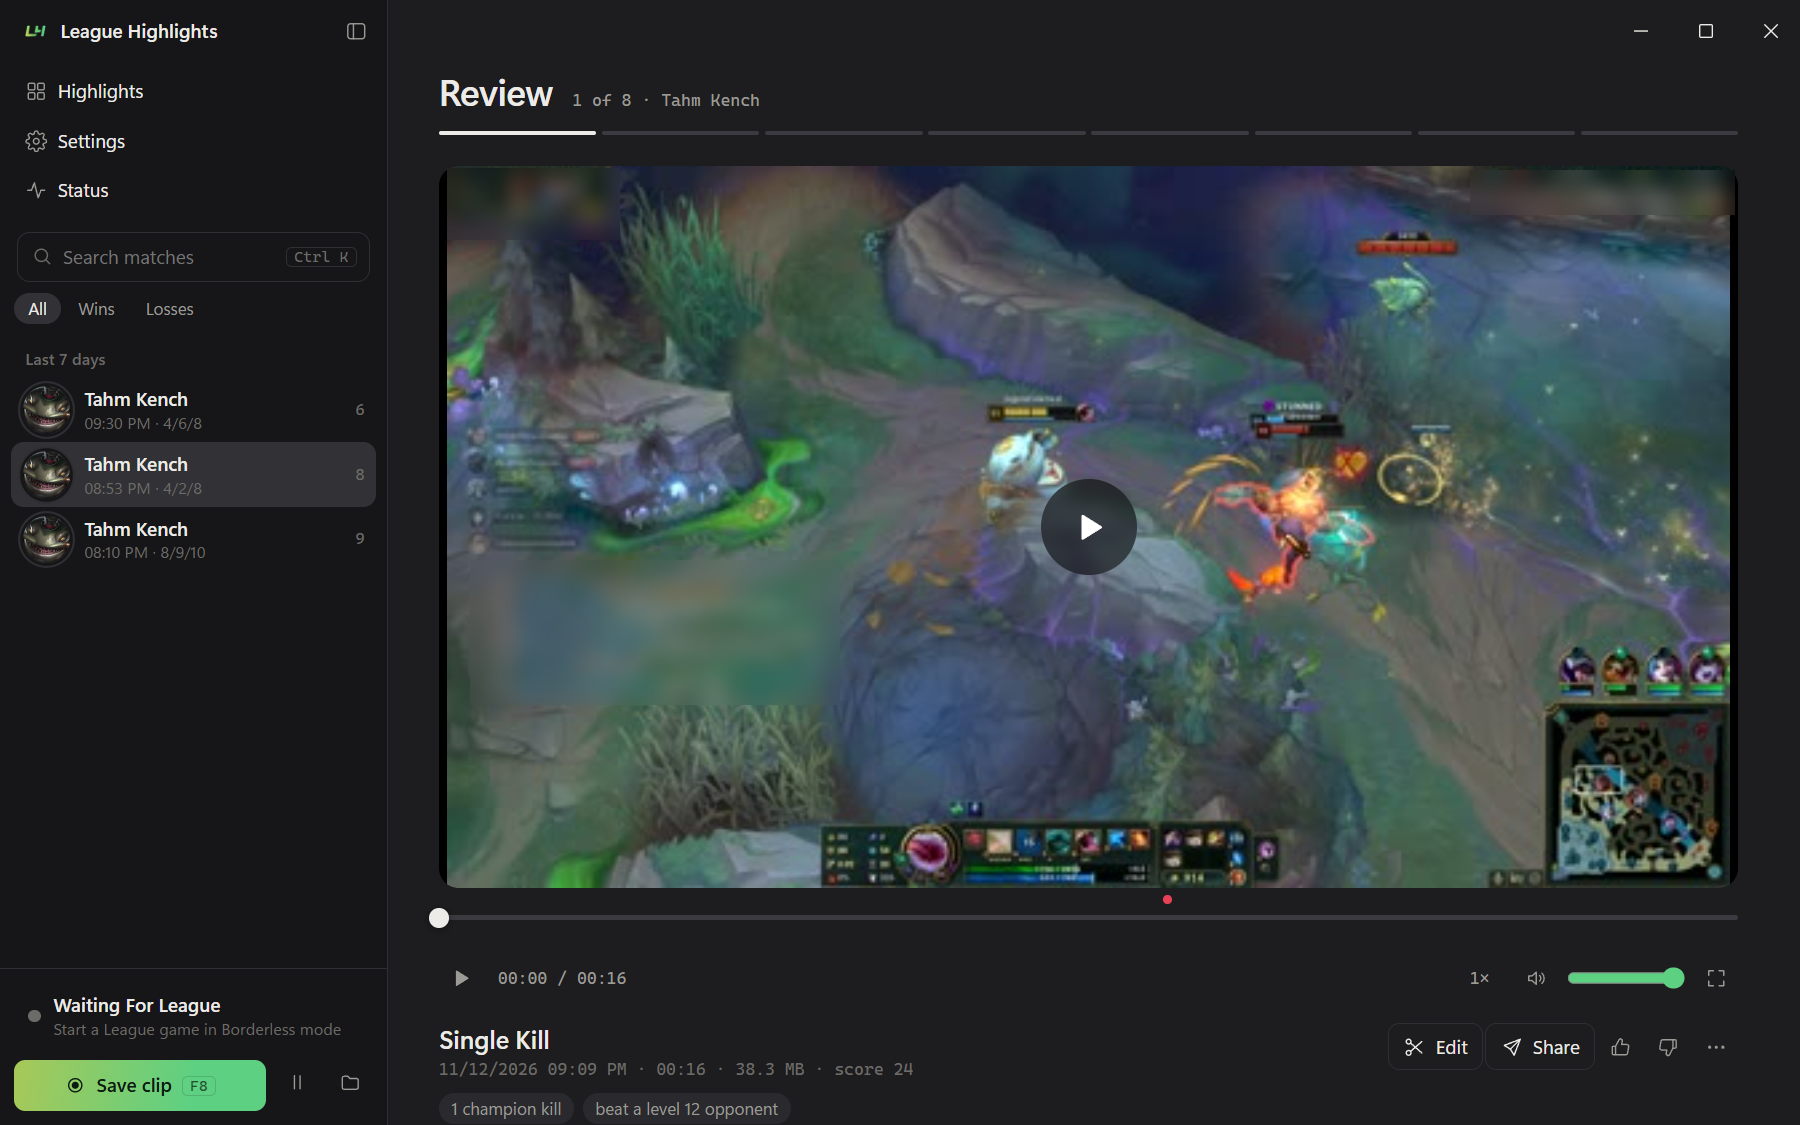
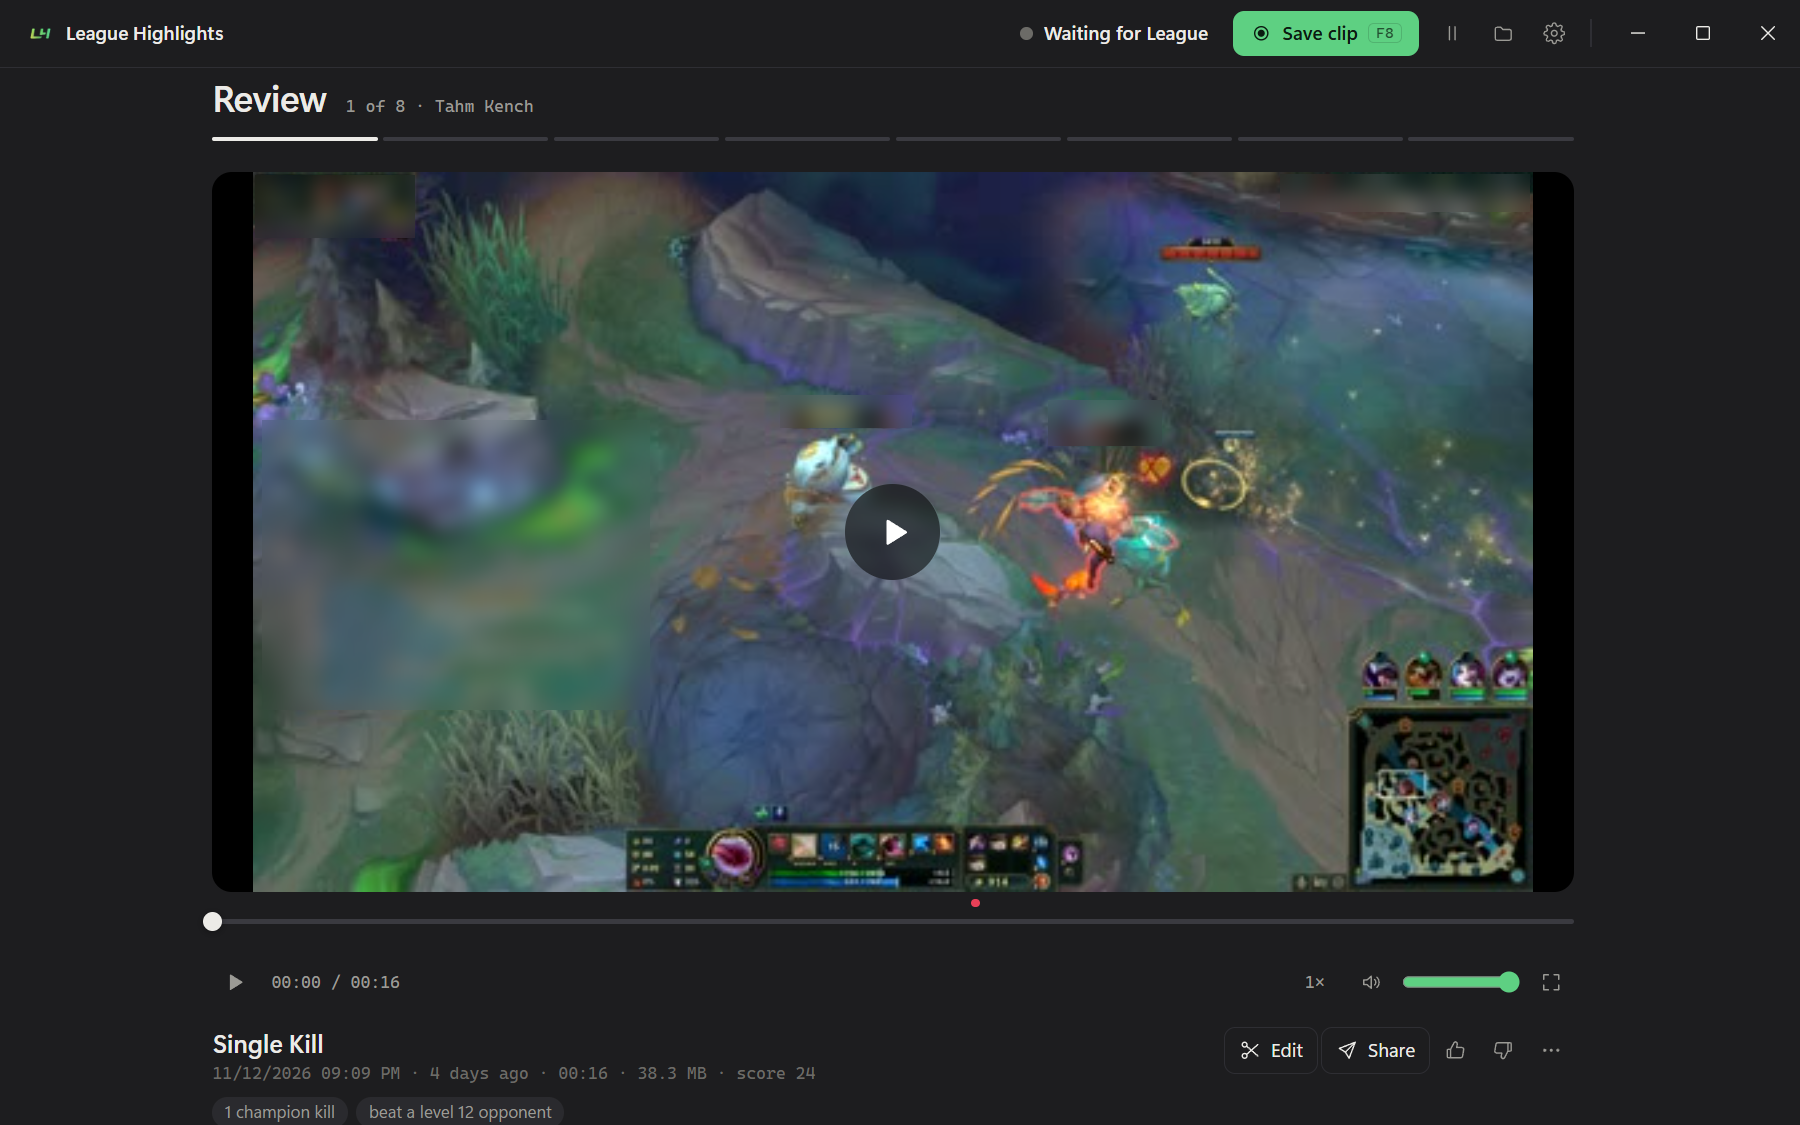
Simpler match page, loading skeletons, fewer unreviewed clips
- Match page: a slim header (back, champion, result, how long ago, KDA,
  length, mode, clip count) instead of the splash banner and timeline.
- Grey skeleton rows while the match list loads; previews pulse until
  their image arrives.
- Watching a clip for a few seconds marks it reviewed (without training
  Smart Highlights).
- Top bar status is sentence case; its hint moves to the tooltip.
- README screenshots show the new design.

diff --git a/ui/index.html b/ui/index.html
@@ -188,6 +188,24 @@ h3 .muted { font: 400 12.5px var(--sans); }
 .mrow .peek button:hover { box-shadow: 0 0 0 2px var(--accent); background: var(--raise); }
 .mrow .more { width: 30px; text-align: right; color: var(--faint); font-size: 12px; flex: none; }
 @media (max-width: 900px) { .mrow .peek button:nth-child(n+2) { display: none; } }
+/* ---------- match page header ---------- */
+.gamehead { display: flex; align-items: center; gap: 14px; padding: 8px 0 4px; }
+.gamehead .back { margin-left: -8px; }
+.gamehead .cicon { width: 44px; height: 44px; }
+.gamehead h1 { font-size: 24px; display: flex; align-items: baseline; gap: 10px; }
+.gamehead h1 .Victory { color: var(--win); font: 500 15px var(--sans); }
+.gamehead h1 .Defeat { color: var(--bad); font: 500 15px var(--sans); }
+.gamehead .sub { color: var(--faint); font-size: 12.5px; margin-top: 3px; }
+.gamehead .sub .mono { font-size: 12px; }
+/* ---------- loading skeletons ---------- */
+@keyframes skel { 0%, 100% { background-color: var(--raise); } 50% { background-color: var(--hover); } }
+.skel { border-radius: 6px; animation: skel 1.4s ease-in-out infinite; }
+.skel.line { height: 11px; margin: 5px 0; }
+.skel.round { width: 34px; height: 34px; border-radius: 50%; flex: none; }
+.skel.peekbox { width: 96px; aspect-ratio: 16 / 9; flex: none; }
+/* Thumbnails pulse until their image has loaded. */
+.mrow .peek button:not(.ok), .tile .th:not(.ok) { animation: skel 1.4s ease-in-out infinite; }
+.top .pill .det { display: none; }
 /* ---------- home ---------- */
 .stats { display: flex; gap: 48px; margin: 22px 0 6px; flex-wrap: wrap; }
 .stats div b { display: block; font: 600 26px/1.1 var(--display); }
@@ -455,6 +473,8 @@ const $$ = (s, r = document) => [...r.querySelectorAll(s)];
 const esc = v => String(v ?? "").replace(/[&<>"']/g, c => ({"&":"&amp;","<":"&lt;",">":"&gt;",'"':"&quot;","'":"&#39;"}[c]));
 const mmss = s => { s = Math.max(0, Math.floor(s || 0)); return String(Math.floor(s / 60)).padStart(2, "0") + ":" + String(s % 60).padStart(2, "0"); };
 const title = s => String(s || "").toLowerCase().replace(/_/g, " ").replace(/\b\w/g, c => c.toUpperCase());
+// "WAITING FOR LEAGUE" -> "Waiting for League"
+const sentence = s => { const t = String(s || "").toLowerCase().replace(/_/g, " ").replace(/\bleague\b/g, "League"); return t.charAt(0).toUpperCase() + t.slice(1); };
 const size = b => { const u = ["B","KB","MB","GB"]; let i = 0; b = +b || 0; while (b >= 1024 && i < 3) { b /= 1024; i++; } return (i ? b.toFixed(1) : b) + " " + u[i]; };
 const store = { get(k, d) { try { const v = localStorage.getItem(k); return v === null ? d : JSON.parse(v); } catch { return d; } }, set(k, v) { try { localStorage.setItem(k, JSON.stringify(v)); } catch {} } };
 const api = async (path, body) => {
@@ -492,6 +512,7 @@ const P = {
   copy: '<rect x="8.5" y="8.5" width="11" height="11" rx="2"/><path d="M15.5 8.5V6a1.5 1.5 0 0 0-1.5-1.5H6A1.5 1.5 0 0 0 4.5 6v8A1.5 1.5 0 0 0 6 15.5h2.5"/>',
   send: '<path d="M20.5 3.5 10 14M20.5 3.5l-6.5 17-4-6.5-6.5-4z"/>',
   next: '<path d="m9 5 7 7-7 7"/>',
+  back: '<path d="m15 5-7 7 7 7"/>',
   music: '<path d="M9 18V5.5l11-2V16"/><circle cx="6.5" cy="18" r="2.5"/><circle cx="17.5" cy="16" r="2.5"/>',
   upload: '<path d="M12 16V4M7 9l5-5 5 5M4.5 15.5v3a1.5 1.5 0 0 0 1.5 1.5h12a1.5 1.5 0 0 0 1.5-1.5v-3"/>',
   stop: '<rect x="6" y="6" width="12" height="12" rx="2"/>',
@@ -603,7 +624,8 @@ async function pollStatus() {
     const st = s.status;
     const recording = st.state === "RECORDING" || st.state === "SAVING CLIP";
     $("#dot").className = "dot " + (recording ? "rec" : st.state === "ERROR" ? "warn" : st.state === "SKIPPED" ? "ok" : "");
-    $("#state").textContent = title(st.state);
+    $("#state").textContent = sentence(st.state);
+    $("#statPill").title = (st.detail ? st.detail + " · " : "") + "Open status";
     $("#timer").textContent = st.recording_since && recording ? mmss(s.now - st.recording_since) : "";
     $("#statusDetail").textContent = st.detail || "";
     $("#statusDetail").title = st.detail || "";
@@ -727,6 +749,7 @@ async function loadClips() {
   try {
     const data = await api("/api/clips");
     state.clips = data.clips;
+    state.loaded = true;
     state.games = groupGames(data.clips);
     renderMatches();
     if (state.view === "match") {
@@ -754,7 +777,7 @@ function renderMatches() {
     const mode = g.mode && String(g.mode).toUpperCase() !== "CLASSIC" ? modeName(g.mode) : "";
     const sub = [g.ungrouped ? dateText(g.started) : `${clock(g.started)} · ${ago(g.started)}`, g.kda, `${n} clip${n === 1 ? "" : "s"}`, esc(mode)].filter(Boolean).join(" · ");
     const best = [...g.clips].sort((x, y) => (y.highlight_score || 0) - (x.highlight_score || 0)).slice(0, 3);
-    const peek = best.map(c => `<button data-file="${esc(c.file)}" title="${esc(title(c.label))}">${c.has_thumb ? `<img loading="lazy" src="/thumb/${encodeURIComponent(c.file)}" alt="">` : ""}</button>`).join("");
+    const peek = best.map(c => `<button class="${c.has_thumb ? "" : "ok"}" data-file="${esc(c.file)}" title="${esc(title(c.label))}">${c.has_thumb ? `<img loading="lazy" src="/thumb/${encodeURIComponent(c.file)}" alt="" onload="this.parentNode.classList.add('ok')" onerror="this.parentNode.classList.add('ok')">` : ""}</button>`).join("");
     return `${head}<div class="mrow" data-id="${esc(g.id)}" title="${esc(dateText(g.started))}">
       ${avatar(g)}<div class="meta"><div class="name">${esc(gameName(g))}${g.result ? `<span class="${g.result}">${g.result}</span>` : ""}</div><div class="sub">${sub}</div></div>
       <div class="peek">${peek}</div><span class="more">${n > 3 ? "+" + (n - 3) : ""}</span></div>`;
@@ -773,7 +796,7 @@ function tile(c, showGame) {
     ? `${esc(gameName(g))} · ${esc(dateText(new Date(c.created_at)))}`
     : `${c.event_game_time != null ? mmss(c.event_game_time) + " in match · " : ""}${c.automatic ? "Smart" : "Manual"}`;
   return `<button class="tile ${state.clip && state.clip.file === c.file ? "sel" : ""} ${state.sel.has(c.file) ? "picked" : ""}" data-file="${esc(c.file)}">
-    <div class="th">${c.has_thumb ? `<img loading="lazy" src="/thumb/${encodeURIComponent(c.file)}" alt="">` : ""}
+    <div class="th ${c.has_thumb ? "" : "ok"}">${c.has_thumb ? `<img loading="lazy" src="/thumb/${encodeURIComponent(c.file)}" alt="" onload="this.parentNode.classList.add('ok')" onerror="this.parentNode.classList.add('ok')">` : ""}
       <span class="badge">${mmss(c.duration_seconds)}</span><span class="play">${icon("play")}</span><span class="pick">${icon("check")}</span></div>
     <div class="cap">${showGame ? avatar(g, "sm") : ""}<div><div class="t">${esc(title(c.label))}${c.rating === "good" ? `<span class="rdot good"></span>` : c.rating === "bad" ? `<span class="rdot bad"></span>` : ""}</div><div class="s">${sub}</div></div></div>
   </button>`;
@@ -790,6 +813,11 @@ function bindTiles(root, showGame) {
 
 /* ---------- home ---------- */
 function renderHome() {
+  if (!state.loaded) {
+    const row = `<div class="mrow"><span class="skel round"></span><div class="meta"><div class="skel line" style="width:140px"></div><div class="skel line" style="width:220px"></div></div><div class="peek"><span class="skel peekbox"></span><span class="skel peekbox"></span><span class="skel peekbox"></span></div><span class="more"></span></div>`;
+    $("#home").innerHTML = `<div class="mhead"><h1>Matches</h1></div><div class="mlist"><div class="group">&nbsp;</div>${row.repeat(5)}</div>`;
+    return;
+  }
   if (!state.clips.length) {
     $("#home").innerHTML = `<div class="empty"><h1>No highlights yet</h1>Start a League game in Borderless mode and press <kbd>${esc(state.hotkey)}</kbd>,<br>or let Smart Highlights keep your best plays automatically.</div>`;
     return;
@@ -968,21 +996,21 @@ function openGame(game, clip, keepScroll) {
   state.game = game;
   renderMatches();
   const best = clip || [...game.clips].sort((a, b) => (b.highlight_score || 0) - (a.highlight_score || 0))[0];
-  const span = Math.max(game.duration, ...game.clips.map(c => c.event_game_time || 0), 1);
-  const art = artOn() && game.champion;
-  const chips = [game.kda && `KDA ${game.kda}`, game.mode && modeName(game.mode), game.duration && mmss(game.duration), dateText(game.started), game.player].filter(Boolean);
-  const marks = game.clips.filter(c => c.event_game_time != null);
+  const n = game.clips.length;
+  const facts = [game.ungrouped ? "" : ago(game.started), (game.ungrouped ? "" : `<span class="mono">${esc(game.started.toLocaleDateString())} ${esc(clock(game.started))}</span>`),
+    game.kda && `KDA <span class="mono">${esc(game.kda)}</span>`, game.duration && `<span class="mono">${mmss(game.duration)}</span>`,
+    game.mode && esc(modeName(game.mode)), `${n} clip${n === 1 ? "" : "s"}`].filter(Boolean);
   $("#detail").innerHTML = `
-    <div class="hero ${art ? "" : "noart"}" ${art ? `style="--art:url('/champ/${encodeURIComponent(game.champion)}/splash')"` : ""}>
-      ${game.result ? `<div class="outcome ${game.result}">${esc(game.result)}</div>` : ""}
-      <h1>${esc(gameName(game))}</h1>
-      <div class="chips">${chips.map(c => `<span class="chip">${esc(c)}</span>`).join("")}</div>
-      ${!game.ungrouped && marks.length ? `<div class="mline"><div class="bar"></div>${marks.map(c => `<button class="mk" data-file="${esc(c.file)}" style="left:${(c.event_game_time / span * 100).toFixed(2)}%" title="${esc(title(c.label))} · ${mmss(c.event_game_time)}"></button>`).join("")}</div>` : ""}
+    <div class="gamehead">
+      <button class="ibtn back" id="backBtn" title="Back to matches (Esc)">${icon("back")}</button>
+      ${avatar(game)}
+      <div><h1>${esc(gameName(game))}${game.result ? `<span class="${game.result}">${esc(game.result)}</span>` : ""}</h1>
+      <div class="sub">${facts.join(" · ")}</div></div>
     </div>
     <div class="player" id="player"></div>
-    <h3>Highlights in this match <span class="muted">${game.clips.length}</span></h3>
+    <h3>Clips in this match <span class="muted">${n}</span></h3>
     <div class="tiles" id="matchTiles">${game.clips.map(c => tile(c, false)).join("")}</div>`;
-  $$("#detail .mk").forEach(el => el.onclick = () => selectClip(game.clips.find(c => c.file === el.dataset.file)));
+  $("#backBtn").onclick = () => show("home");
   bindTiles($("#matchTiles"), false);
   if (!keepScroll) $("#scroll").scrollTop = 0;
   selectClip(best);
@@ -1002,7 +1030,7 @@ function selectClip(clip) {
   if (!clip) return;
   stopPreview();
   state.clip = clip;
-  $$("#detail .tile, #detail .mk").forEach(el => el.classList.toggle("sel", el.dataset.file === clip.file));
+  $$("#detail .tile").forEach(el => el.classList.toggle("sel", el.dataset.file === clip.file));
   const dur = clip.duration_seconds || 0;
   state.trim = [0, dur];
   const reasons = clip.score_reasons || [];
@@ -1069,7 +1097,15 @@ function selectClip(clip) {
   };
   const toggle = () => video.paused ? video.play() : video.pause();
   video.onplay = () => playing(true); video.onpause = video.onended = () => playing(false);
-  video.ontimeupdate = drawTime;
+  // Watching a clip for a few seconds counts as reviewing it (without
+  // teaching Smart Highlights anything: only Review's Keep does that).
+  video.ontimeupdate = () => {
+    drawTime();
+    if (!clip.reviewed && video.currentTime >= Math.min(4, (clip.duration_seconds || 8) / 2)) {
+      clip.reviewed = true;
+      api("/api/clips/reviewed", { files: [clip.file] }).catch(() => { clip.reviewed = false; });
+    }
+  };
   video.onclick = toggle; $("#bigPlay").onclick = toggle; $("#pp").onclick = toggle;
   const fullscreen = () => document.fullscreenElement ? document.exitFullscreen() : stage.requestFullscreen().catch(() => {});
   video.ondblclick = fullscreen; $("#fs").onclick = fullscreen;
@@ -1535,6 +1571,7 @@ window.addEventListener("keydown", e => {
 document.addEventListener("visibilitychange", () => { if (!document.hidden) { pollStatus(); loadClips(); } });
 if (innerWidth <= 760) document.body.classList.add("collapsed");
 $("#navHome").classList.add("on");
+renderHome(); // loading skeleton until the clip list arrives
 api("/api/settings").then(s => { state.settings = s; setHotkey(s.hotkey_display); }).catch(() => {}).finally(async () => {
   await loadClips();
   loadStorage();

diff --git a/README.md b/README.md
@@ -8,15 +8,15 @@ support impact, low-health survivals and objective steals automatically.
 Version 2 is a rewrite in Rust: one ~2 MB executable plus `ffmpeg.exe`, with no
 Python runtime and no Qt. **[Download the latest release](https://github.com/Kirbyy1/League-Highlights/releases/latest)**
 
-![Highlights home with stats, a post-match review prompt and clip tiles](docs/images/home.png)
+![Matches page: one row per game with its result, KDA, clip count and best clips](docs/images/home.png)
 
 ## Screenshots
 
-| Match page and player | Post-match review |
+| Match page | Post-match review |
 |---|---|
-| ![Match page with match timeline, custom player and event markers](docs/images/match.png) | ![Review view stepping through a match's new clips](docs/images/review.png) |
+| ![Match page with a slim header, the player and event markers](docs/images/match.png) | ![Review view stepping through a match's new clips](docs/images/review.png) |
 
-![Settings with a category list and flat setting rows](docs/images/settings.png)
+![Settings with a category list, flat rows and switches](docs/images/settings.png)
 
 <sub>Screenshots from real matches. Riot IDs and in-game chat are hidden.</sub>
 
